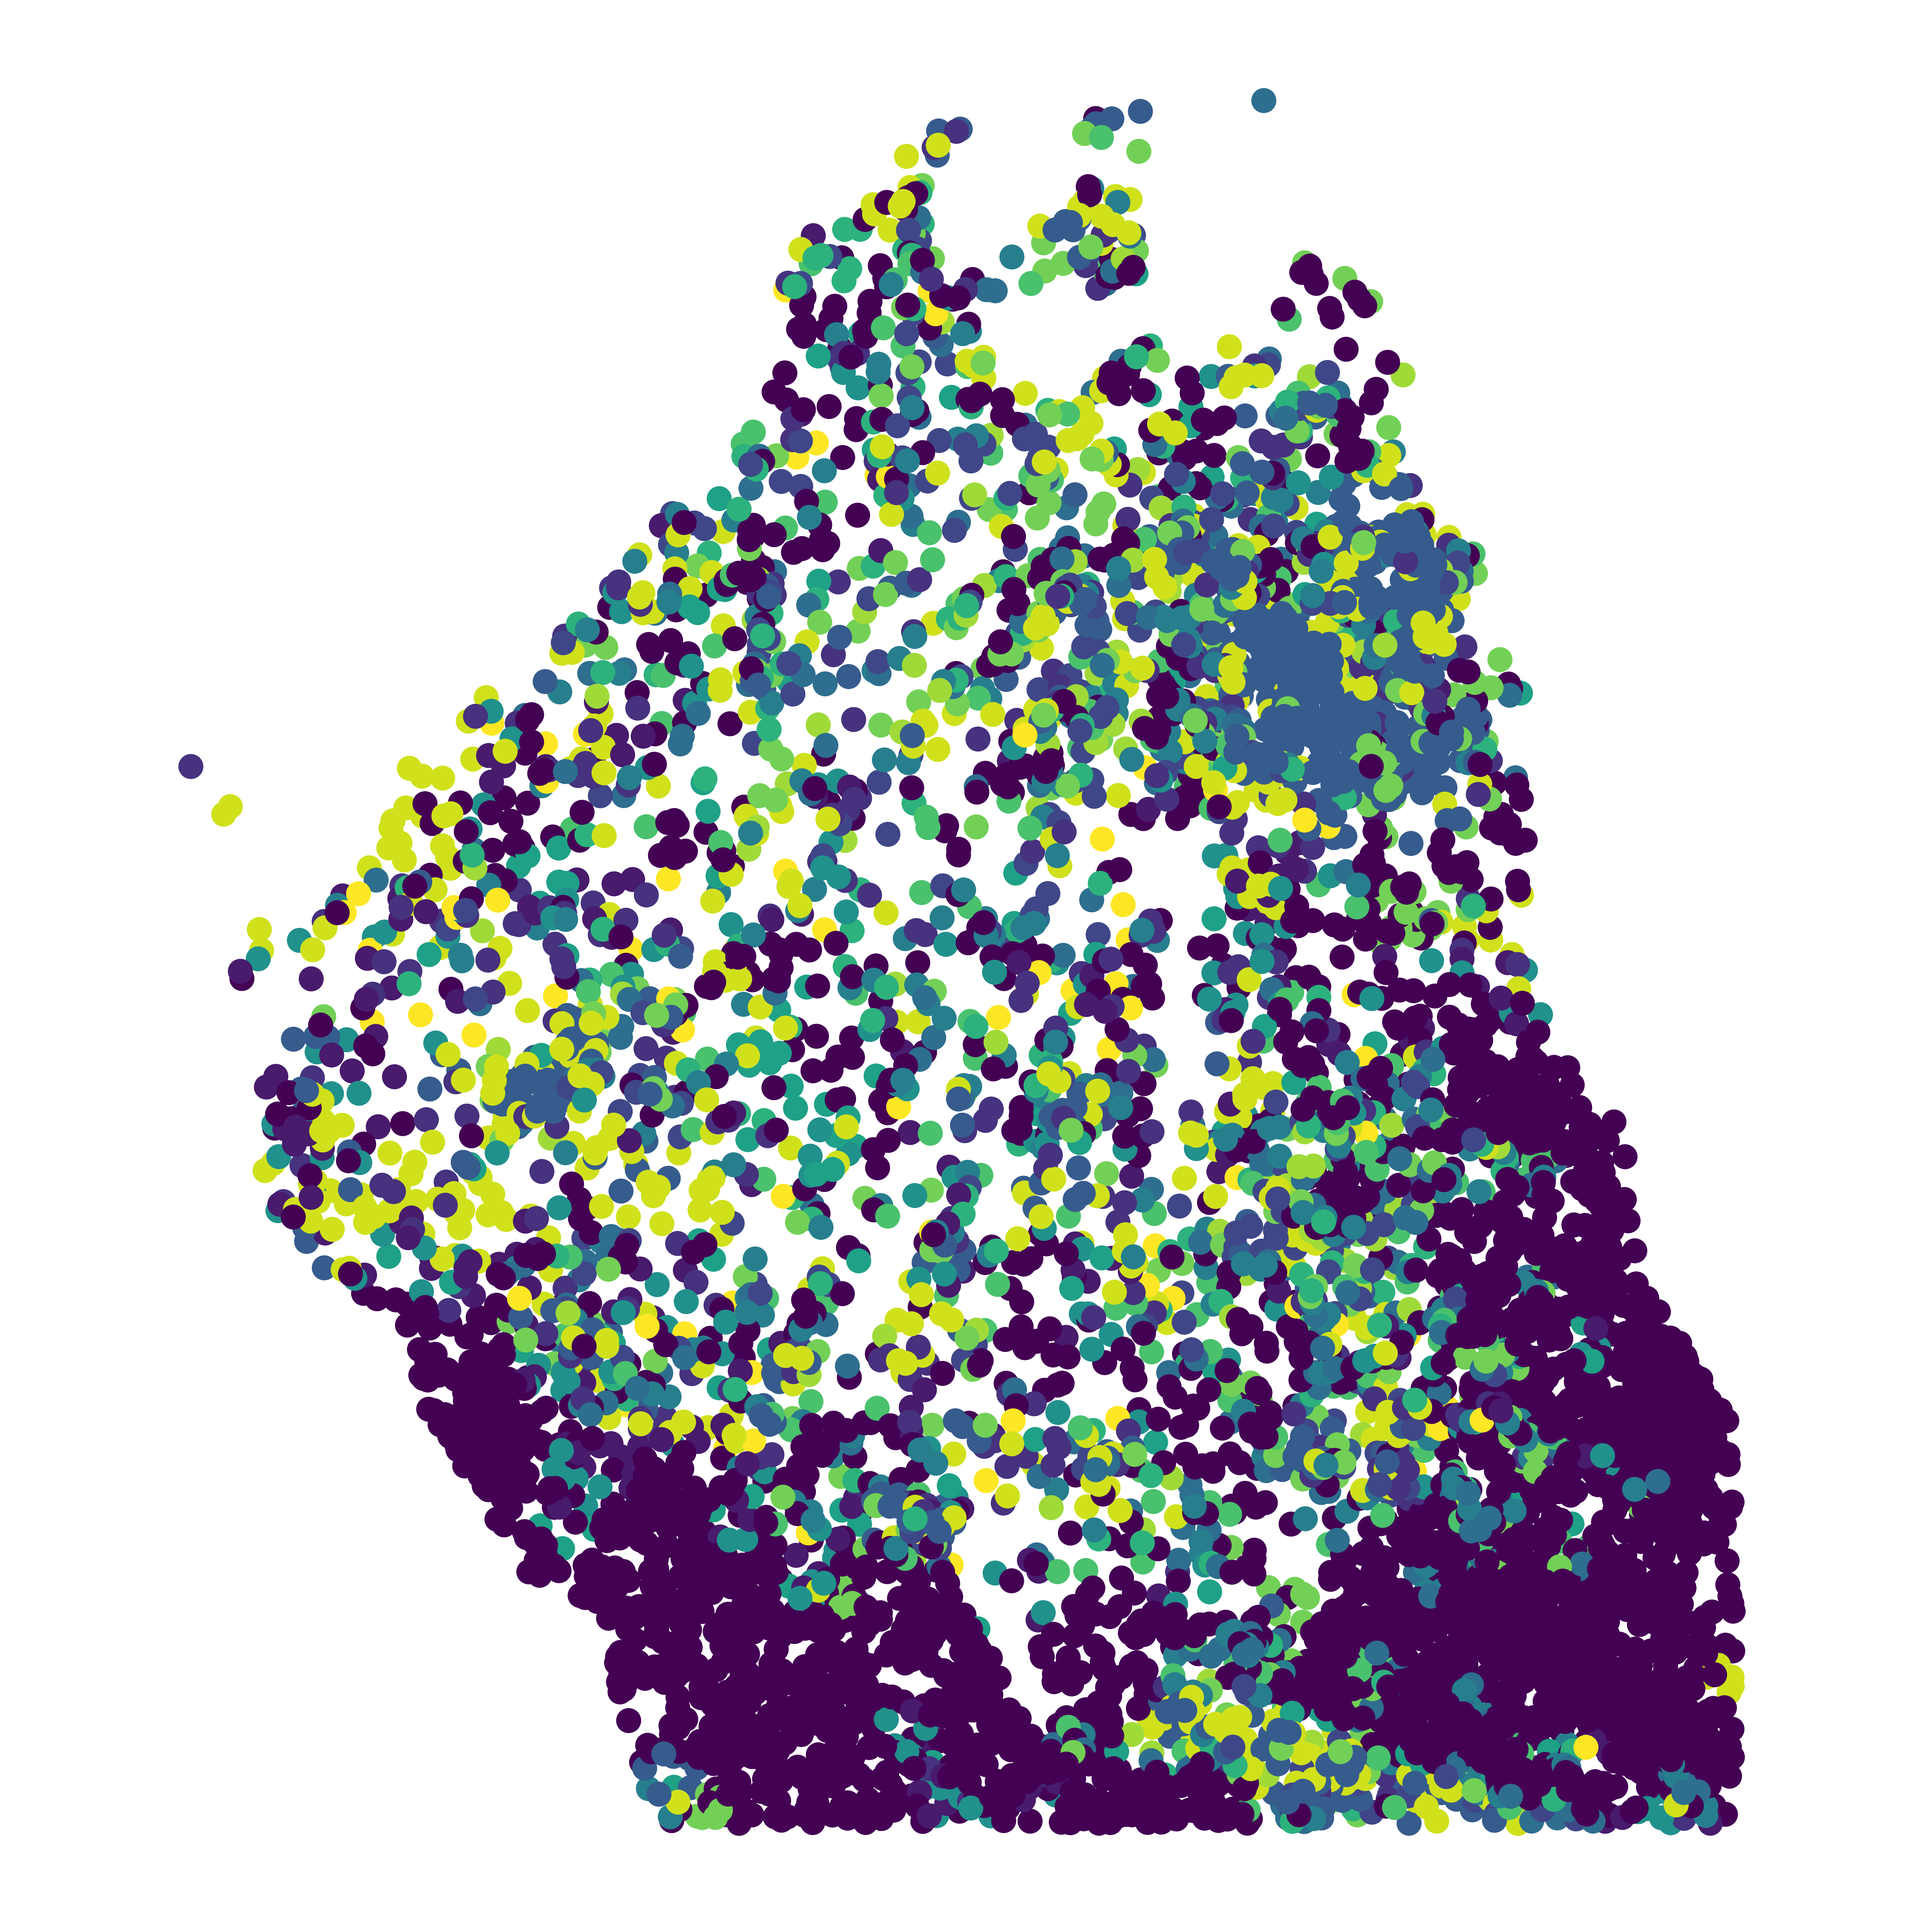
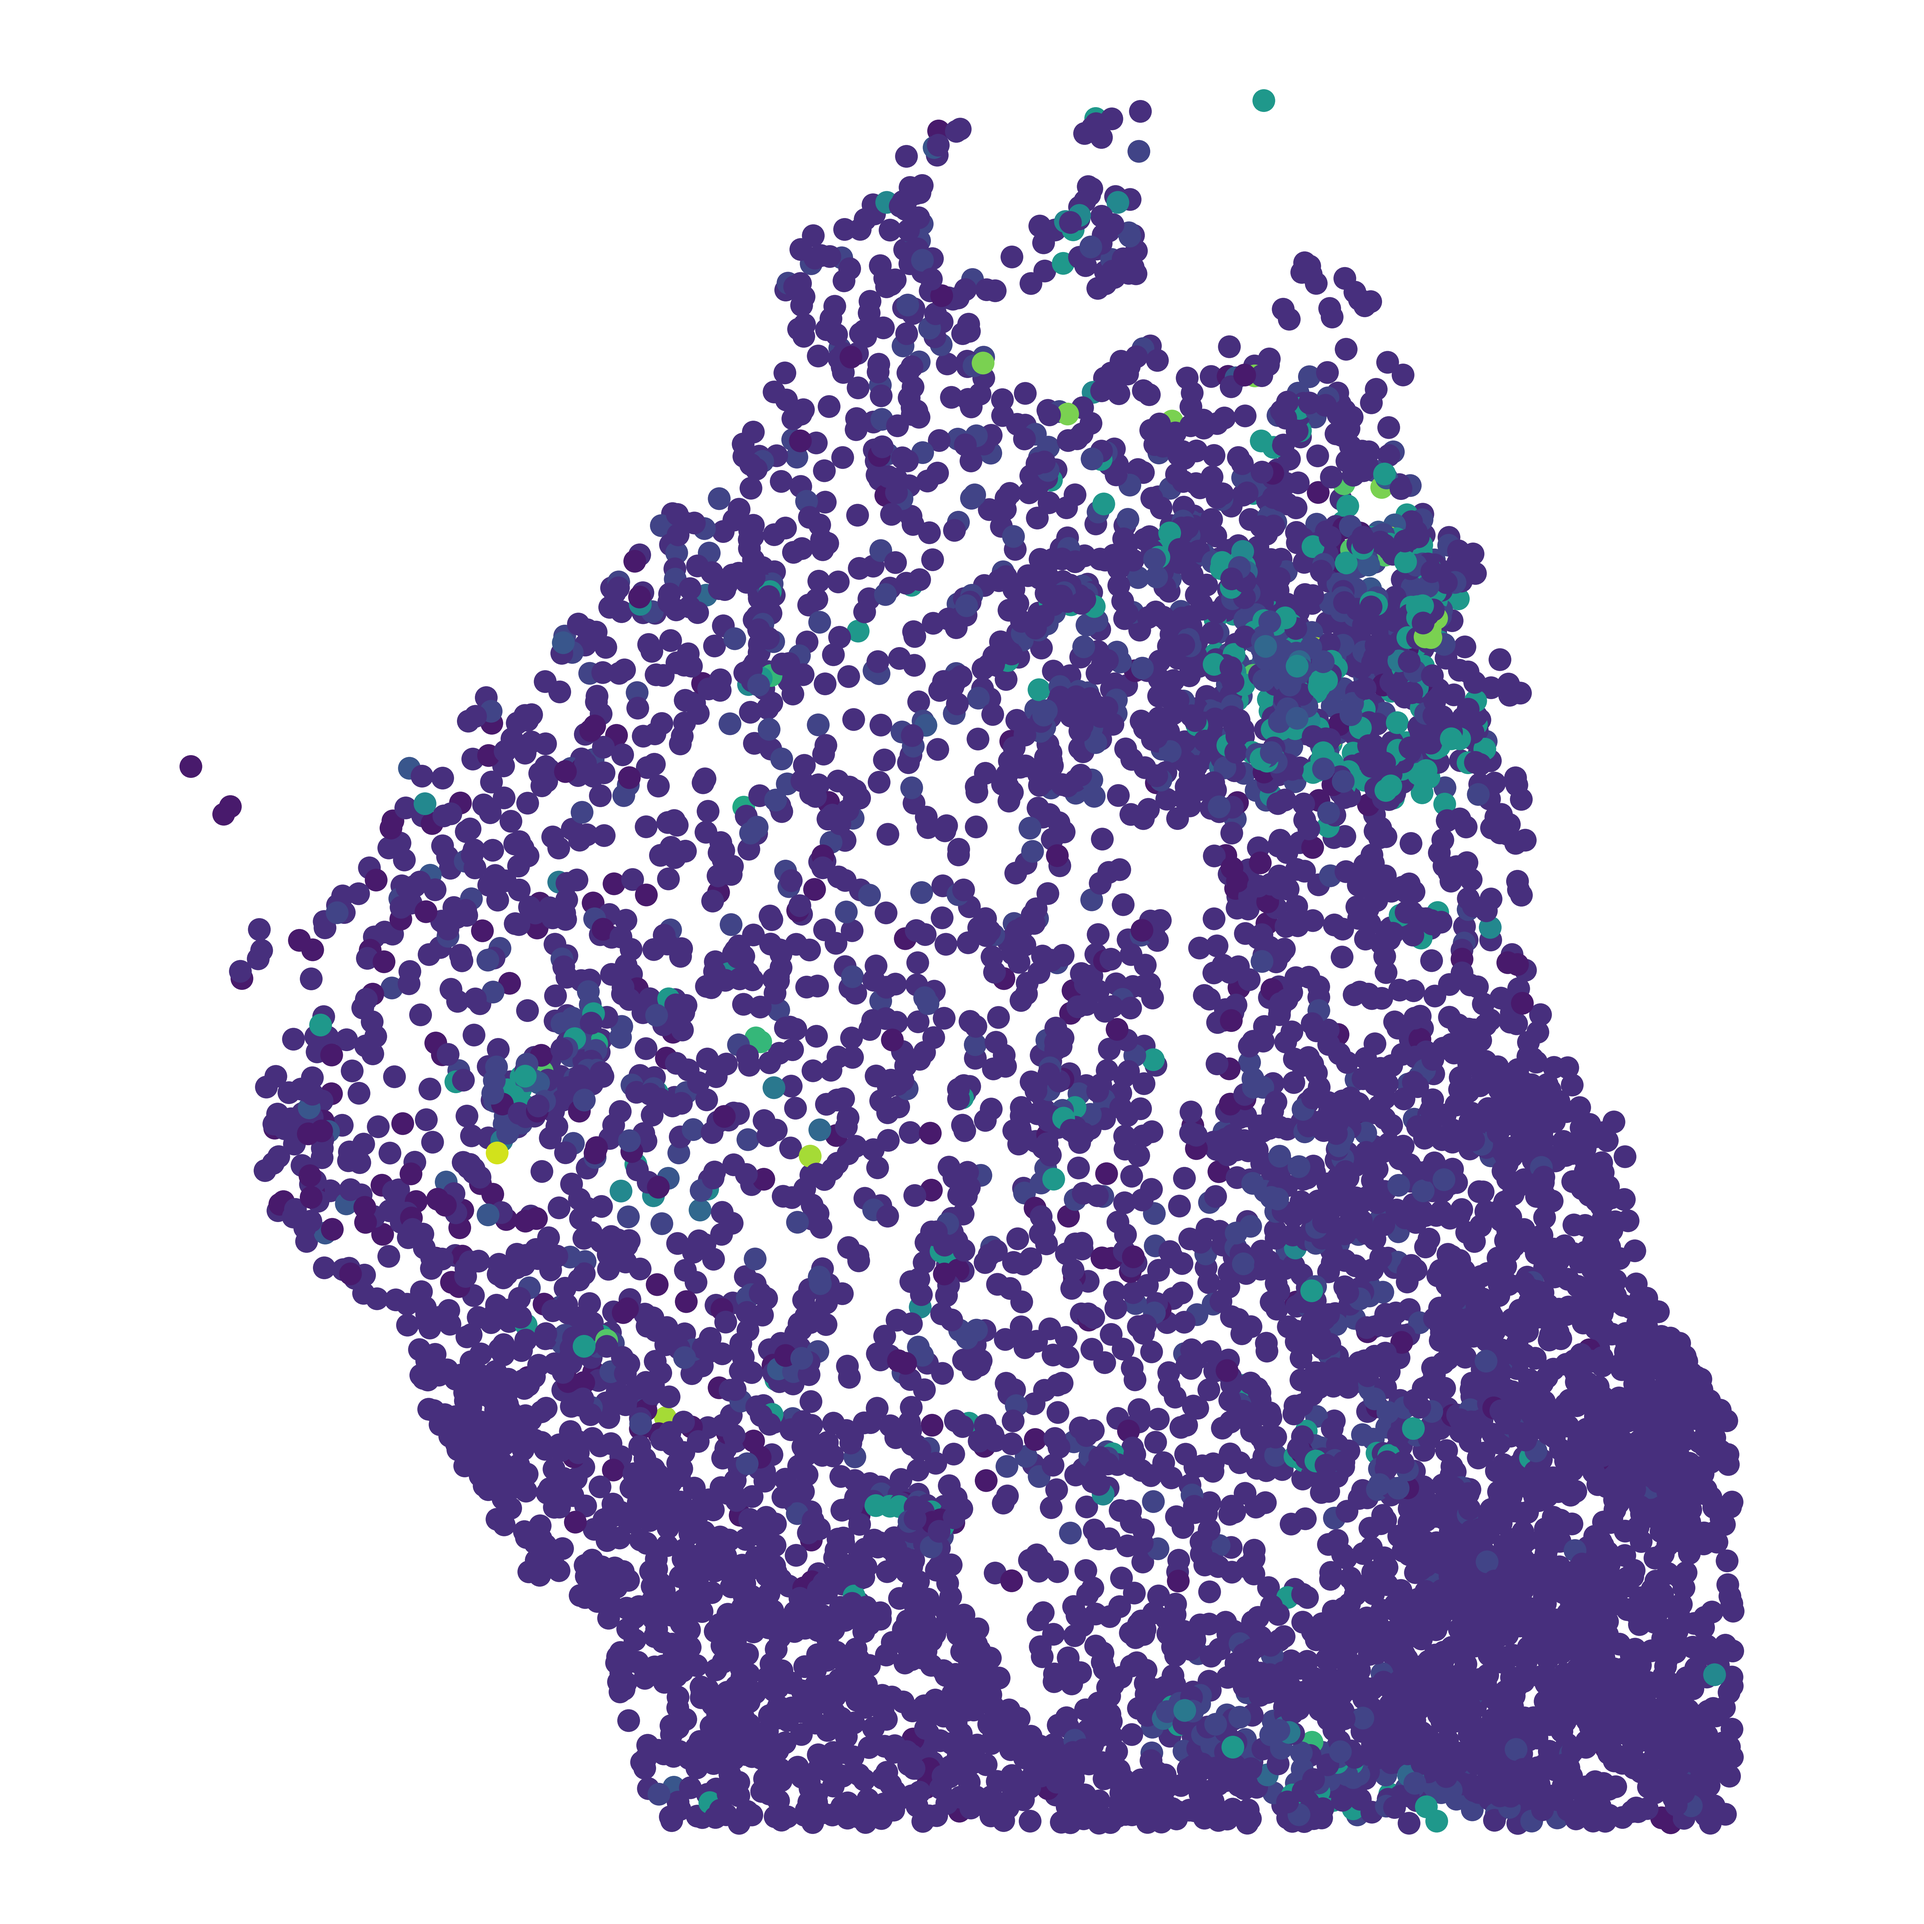
change cluster img to Todd's manually id populations

diff --git a/CASSATT-app/www/css/static-intro.css b/CASSATT-app/www/css/static-intro.css
@@ -28,5 +28,5 @@
   max-width: 83%;
 }
 #cluster_legend {
-  max-width: 45%;
+  max-width: 80%;
 }
